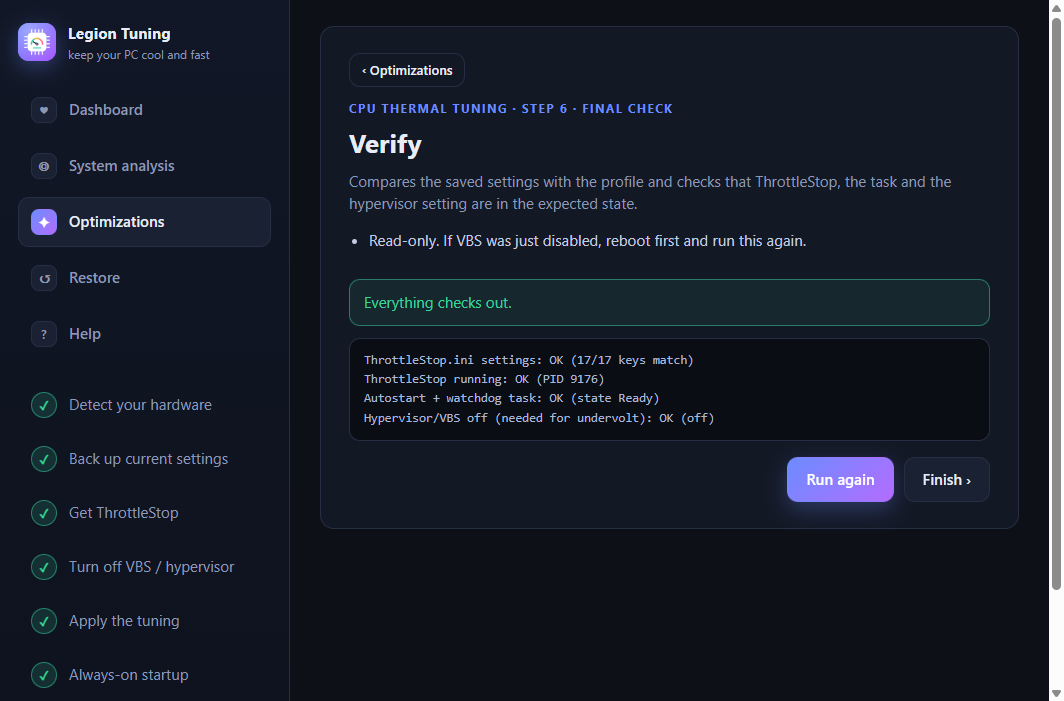
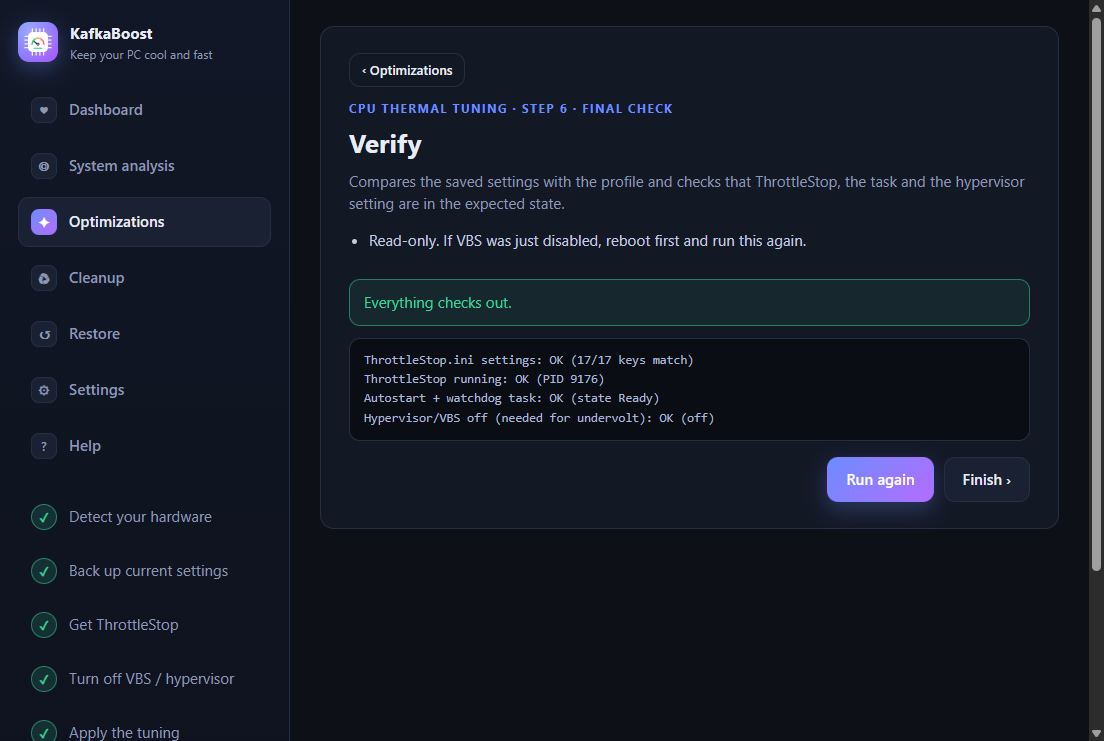
docs: regenerate the screenshots and show the tweak catalog, Cleanup and Settings
The screenshots predated the KafkaBoost UI. They come from demo mode, so the
numbers on them are sample data.

diff --git a/README.md b/README.md
@@ -72,6 +72,10 @@ Run from a terminal: `cd app; npm install; npm start` (administrator needed to a
 |---|---|
 | <img src="docs/assets/health-ok.png" alt="Dashboard: your PC is optimized"> | <img src="docs/assets/health-attention.png" alt="Dashboard: settings drifted after a Windows update, Fix it button"> |
 
+| Optimizations — tweak catalog | Cleanup | Settings |
+|---|---|---|
+| <img src="docs/assets/tweaks.png" alt="Optimizations: 30 tweaks with search, category filters, risk badges and toggles"> | <img src="docs/assets/cleanup.png" alt="Cleanup: sizes measured first, delete only what is ticked"> | <img src="docs/assets/settings.png" alt="Settings: theme, language, tray and update options"> |
+
 The side menu has seven sections: **Dashboard**, **System analysis**, **Optimizations**, **Cleanup**, **Restore**, **Settings** and **Help**.
 The app is being renamed **KafkaBoost** (launchers and window already; the repo, package ids and task names keep their old names).
 Light and dark theme, English and Brazilian Portuguese.
